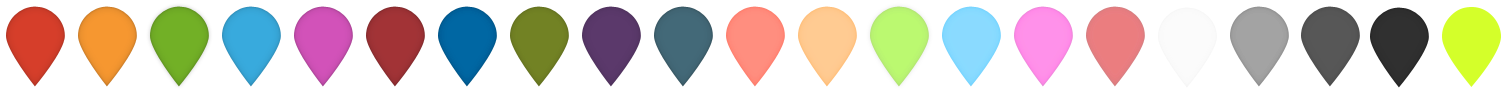
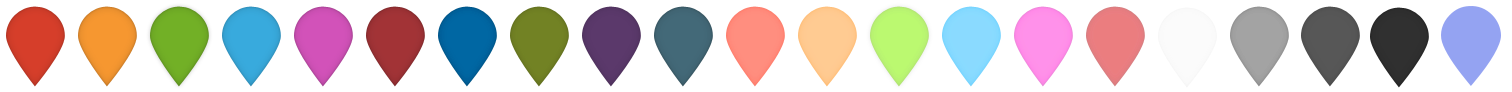
light cobalt blue

Changed region(s): [[0.9325, 0.0652, 0.9947, 0.913]]

diff --git a/src/scss/partials/_awesome-markers-with-more-colours.scss b/src/scss/partials/_awesome-markers-with-more-colours.scss
@@ -7,7 +7,7 @@ Version: 1.0
 /* Marker setup */
 .awesome-marker {
     background: url('../images/markers-soft.png') no-repeat 0 0;
-    width: 35px;
+    width: 36px;
     height: 46px;
     position:absolute;
     left:0;
@@ -135,13 +135,10 @@ Version: 1.0
     background-position: -682px 0;
   }
     
-  .awesome-marker-icon-newyellow {
+  .awesome-marker-icon-lightcobaltblue {
     background-position: -718px 0;
   }
 
-  .awesome-marker-icon-lightcobaltblue {
-    background: url('../images/marker-lightcobaltblue.png') no-repeat 0 0;
-  }
 
   .awesome-marker-square {
     background-position-y: -46px;

diff --git a/src/js/map/consts.js b/src/js/map/consts.js
@@ -117,6 +117,7 @@ const MARKER_COLORS = {
   yellow: "#ffff00",
   //colours added for the neighbourhood map
   lightcobaltblue: "#94A3F2", //gp 
+  lincolngreen: '#0F5513',//stayig healthey and safe
   jordyblue: "#94BDF2",
   tangerine: "#F28705",
   hippiegreen: "#5C8C57",
